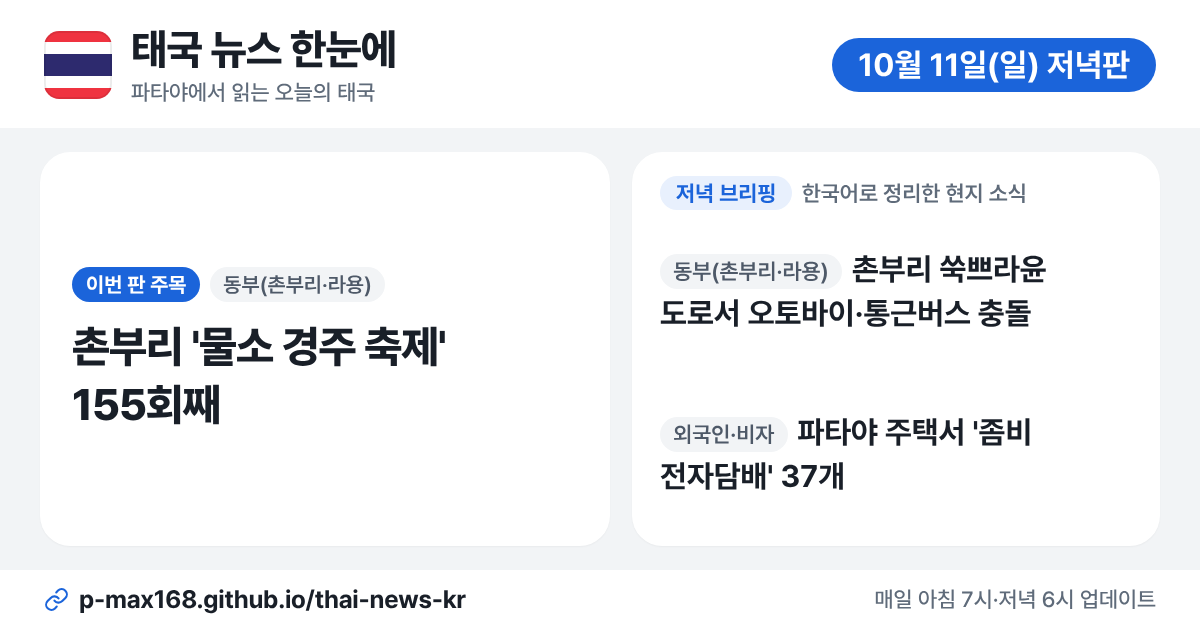
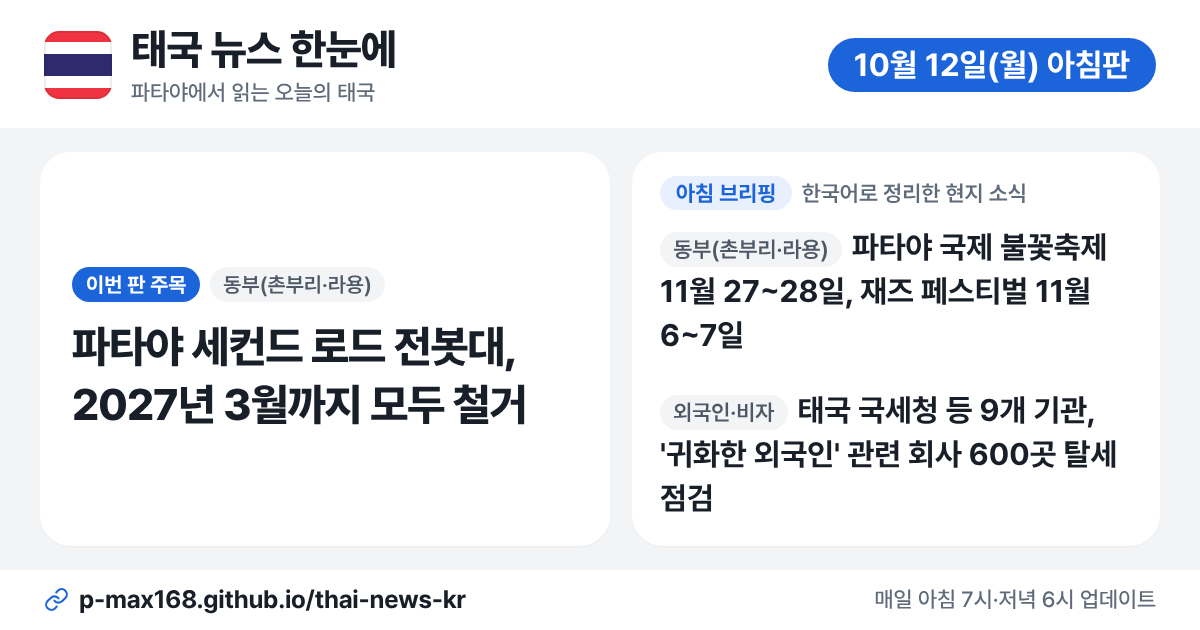
edition 2026-10-12-am

diff --git a/e/2026-10-12-am/index.html b/e/2026-10-12-am/index.html
@@ -1,0 +1,37 @@
+<!doctype html>
+<html lang="ko">
+<head>
+<meta charset="utf-8">
+<meta name="viewport" content="width=device-width, initial-scale=1">
+<meta name="robots" content="noindex, nofollow">
+<title>태국 뉴스 한눈에 — 10월 12일(월) 아침판</title>
+<meta name="description" content="🏖 파타야 세컨드 로드 전봇대, 2027년 3월까지 모두 철거 · 🏖 파타야 국제 불꽃축제 11월 27~28일, 재즈 페스티벌 11월 6~7일 · 🛂 태국 국세청 등 9개 기관, &#x27;귀화한 외…">
+<meta property="og:type" content="website">
+<meta property="og:site_name" content="태국 뉴스 한눈에">
+<meta property="og:locale" content="ko_KR">
+<meta property="og:title" content="태국 뉴스 한눈에 — 10월 12일(월) 아침판">
+<meta property="og:description" content="🏖 파타야 세컨드 로드 전봇대, 2027년 3월까지 모두 철거 · 🏖 파타야 국제 불꽃축제 11월 27~28일, 재즈 페스티벌 11월 6~7일 · 🛂 태국 국세청 등 9개 기관, &#x27;귀화한 외…">
+<meta property="og:url" content="https://p-max168.github.io/thai-news-kr/e/2026-10-12-am/">
+<meta property="og:image" content="https://p-max168.github.io/thai-news-kr/og/2026-10-12-am.png">
+<meta property="og:image:width" content="1200">
+<meta property="og:image:height" content="630">
+<meta property="og:image:alt" content="태국 뉴스 한눈에 — 10월 12일(월) 아침판">
+<meta name="twitter:card" content="summary_large_image">
+<meta name="twitter:title" content="태국 뉴스 한눈에 — 10월 12일(월) 아침판">
+<meta name="twitter:description" content="🏖 파타야 세컨드 로드 전봇대, 2027년 3월까지 모두 철거 · 🏖 파타야 국제 불꽃축제 11월 27~28일, 재즈 페스티벌 11월 6~7일 · 🛂 태국 국세청 등 9개 기관, &#x27;귀화한 외…">
+<meta name="twitter:image" content="https://p-max168.github.io/thai-news-kr/og/2026-10-12-am.png">
+<meta name="theme-color" content="#ffffff">
+<link rel="icon" type="image/png" sizes="32x32" href="../../assets/icons/favicon-32.png">
+<!-- 판별 링크 미리보기용 정적 페이지(tools/share_kit.py 가 생성). 사람은 바로 판 화면으로 이동.
+     meta refresh 는 일부 미리보기 수집기가 따라가 메인 페이지 태그를 읽을 수 있어 쓰지 않음(JS 이동 + 링크). -->
+<script>location.replace("../../?ed=2026-10-12-am" + location.hash);</script>
+<style>body{margin:0;font-family:Pretendard,"Apple SD Gothic Neo","Noto Sans KR",sans-serif;background:#F2F4F6;color:#191F28}
+header{background:#fff;color:#191F28;padding:18px 20px;font-weight:800;font-size:20px;box-shadow:0 1px 0 rgba(0,0,0,.05)}main{padding:20px;max-width:640px;margin:auto}
+a.btn{display:inline-block;margin-top:14px;background:#1B64DA;color:#fff;font-weight:700;padding:12px 18px;border-radius:12px;text-decoration:none}
+li{margin:6px 0;color:#333D4B}</style>
+</head>
+<body>
+<header>태국 뉴스 한눈에</header>
+<main><p><b>10월 12일 아침판</b></p><ul><li>🏖 파타야 세컨드 로드 전봇대, 2027년 3월까지 모두 철거</li><li>🏖 파타야 국제 불꽃축제 11월 27~28일, 재즈 페스티벌 11월 6~7일</li><li>🛂 태국 국세청 등 9개 기관, &#x27;귀화한 외국인&#x27; 관련 회사 600곳 탈세 점검</li><li>🍜 방콕발 인천행 아시아나 OZ742, 승객 이상행동에 이륙 직전 회항</li><li>🌦 태국 기상청 경보 11호 &quot;13일 방콕·동부·중부 폭우&quot;</li></ul><a class="btn" href="../../?ed=2026-10-12-am">이번 판 열기 →</a></main>
+</body>
+</html>
